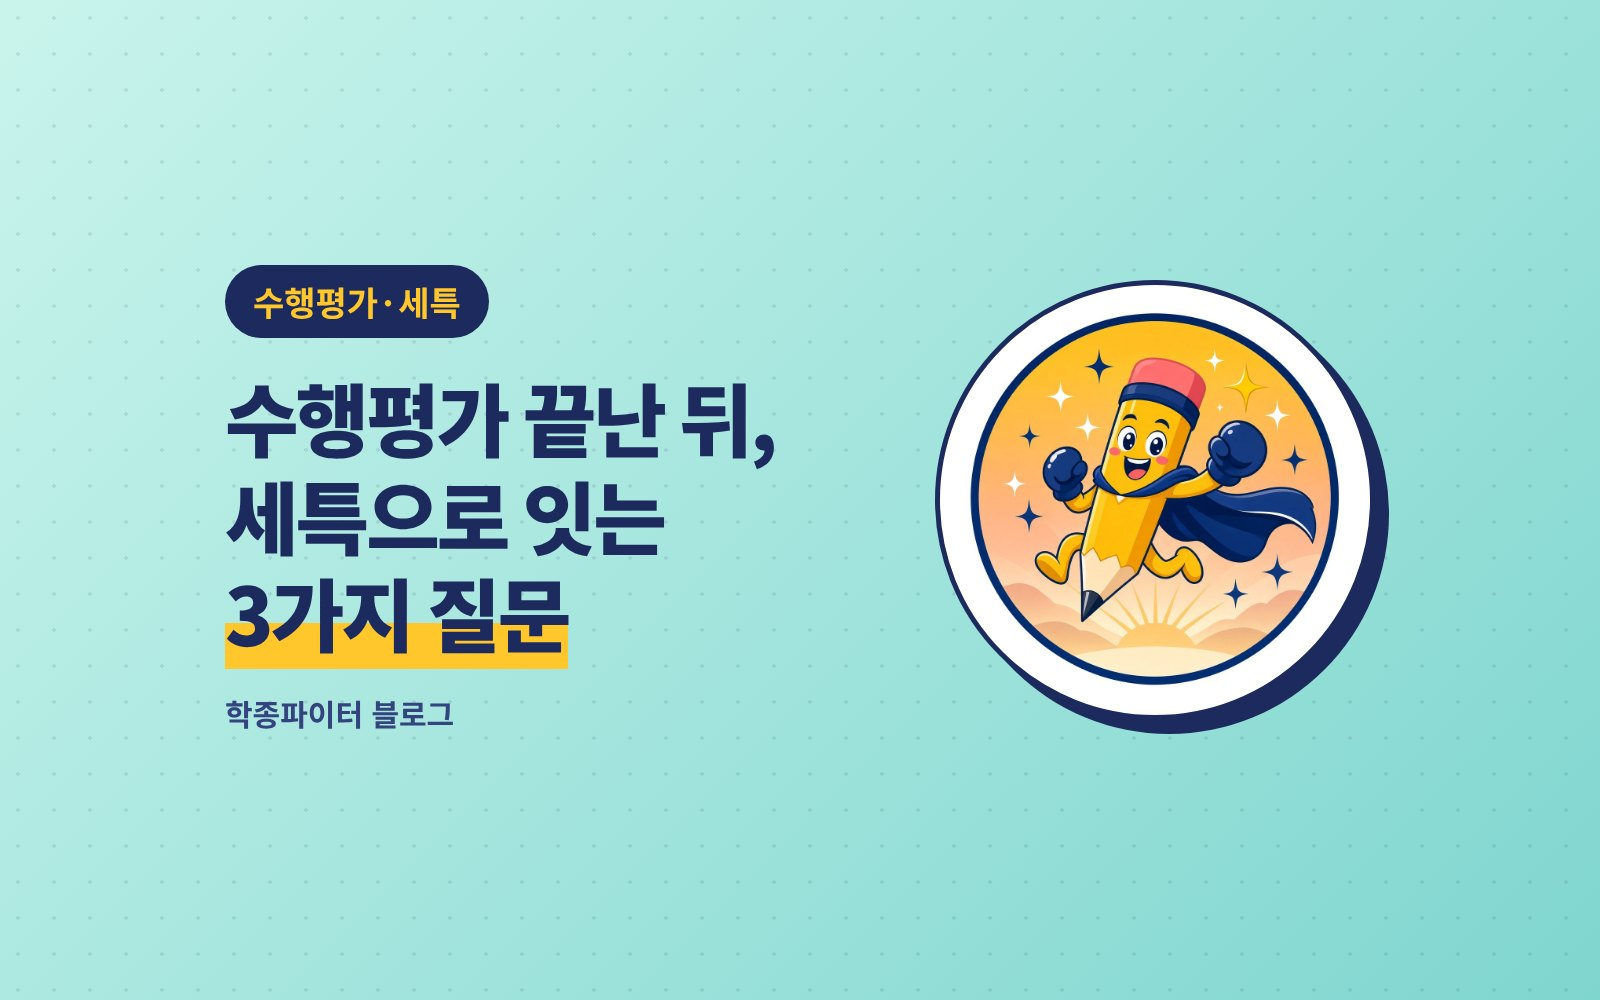
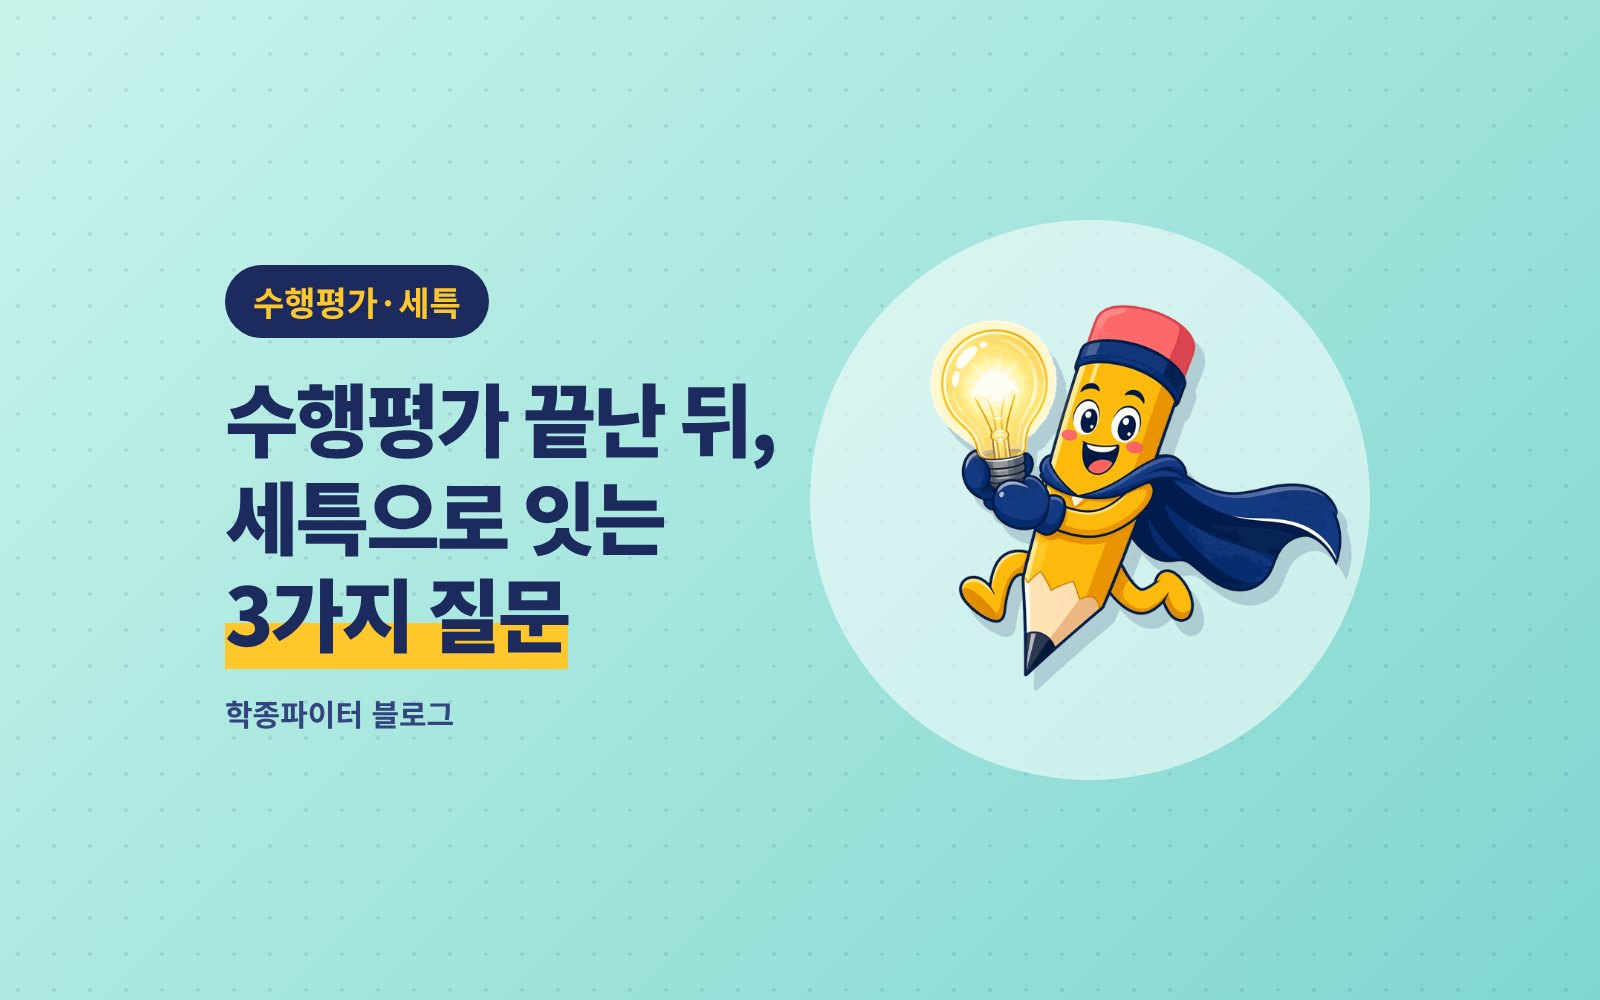
캐릭터 포즈 20종 추가, 블로그 썸네일을 포즈 이미지로 교체
- images/characters/: 배경 제거한 캐릭터 PNG 20장 + 포즈 안내
- .github/scripts/make_thumb.py: 글 제목+캐릭터 썸네일 생성 도구

Claude-Session: https://claude.ai/code/session_01CejgdAdDNq9LcUqEF9wuq1

Changed region(s): [[0.5, 0.217, 0.875, 0.806]]

diff --git a/.github/scripts/make_thumb.py b/.github/scripts/make_thumb.py
@@ -1,0 +1,53 @@
+"""블로그 썸네일(1600x1000) 만들기. 캐릭터는 images/characters/ 에서 골라요.
+
+사용법 (Playwright + Chrome 필요):
+  python .github/scripts/make_thumb.py <영어주소> <캐릭터이름> "<카테고리>" "<제목 줄1|줄2|줄3>" "<형광펜 단어>"
+예:
+  python .github/scripts/make_thumb.py seteuk-basics present-book "수행평가·세특" "세특이 뭐길래?|뜻부터 채우는|방법까지" "뜻부터"
+결과: images/blog/<영어주소>.jpg
+"""
+import os, sys, html
+from playwright.sync_api import sync_playwright
+
+ROOT = os.path.abspath(os.path.join(os.path.dirname(__file__), "..", ".."))
+CHROME = os.environ.get("CHROME", "/usr/bin/google-chrome")
+
+def main(slug, char, cat, title, hl=""):
+    lines = [html.escape(x) for x in title.split("|")]
+    if hl:
+        lines = [l.replace(html.escape(hl), f"<em>{html.escape(hl)}</em>") for l in lines]
+    fs = 92 if max(len(l) for l in title.split("|")) <= 9 else 80
+    char_path = os.path.join(ROOT, "images", "characters", f"{char}.png")
+    if not os.path.exists(char_path):
+        sys.exit(f"캐릭터 이미지가 없어요: {char_path}")
+    page = f"""<!doctype html><html><head><meta charset="utf-8"><style>
+*{{margin:0;box-sizing:border-box}}
+body{{width:1600px;height:1000px;background:linear-gradient(135deg,#C9F4EC 0%,#7FD6CF 100%);font-family:'Noto Sans KR','Noto Sans CJK KR',sans-serif;color:#1C2A5E;position:relative;overflow:hidden}}
+.dots{{position:absolute;inset:0;background-image:radial-gradient(rgba(28,42,94,.10) 2px,transparent 2px);background-size:36px 36px}}
+.blob{{position:absolute;right:230px;top:50%;width:560px;height:560px;margin-top:-280px;border-radius:999px;background:rgba(255,255,255,.55)}}
+.safe{{position:absolute;left:225px;right:225px;top:0;bottom:0;display:flex;align-items:center;gap:20px}}
+.t{{flex:1;display:flex;flex-direction:column;gap:30px;position:relative}}
+.pill{{align-self:flex-start;background:#1C2A5E;color:#FFC72C;font-weight:700;font-size:34px;padding:12px 28px;border-radius:999px}}
+h1{{font-size:{fs}px;line-height:1.22;font-weight:900;letter-spacing:-3px}}
+h1 em{{font-style:normal;background:linear-gradient(transparent 60%,#FFC72C 60%)}}
+.brand{{font-size:30px;font-weight:700;color:#33447F}}
+.c{{flex:none;width:520px;height:720px;display:flex;align-items:center;justify-content:center;position:relative}}
+.c img{{max-width:100%;max-height:100%;filter:drop-shadow(10px 14px 0 rgba(28,42,94,.18))}}
+</style></head><body><div class="dots"></div><div class="blob"></div><div class="safe"><div class="t"><span class="pill">{html.escape(cat)}</span><h1>{'<br>'.join(lines)}</h1><div class="brand">학종파이터 블로그</div></div><div class="c"><img src="file://{char_path}"></div></div></body></html>"""
+    tmp = os.path.join(ROOT, ".thumb_tmp.html")
+    open(tmp, "w", encoding="utf-8").write(page)
+    out = os.path.join(ROOT, "images", "blog", f"{slug}.jpg")
+    os.makedirs(os.path.dirname(out), exist_ok=True)
+    with sync_playwright() as p:
+        b = p.chromium.launch(executable_path=CHROME)
+        pg = b.new_page(viewport={"width": 1600, "height": 1000})
+        pg.goto("file://" + tmp); pg.wait_for_timeout(500)
+        pg.screenshot(path=out, type="jpeg", quality=86)
+        b.close()
+    os.remove(tmp)
+    print("만들었어요:", out)
+
+if __name__ == "__main__":
+    if len(sys.argv) < 5:
+        sys.exit(__doc__)
+    main(*sys.argv[1:6])

diff --git a/images/characters/README.md b/images/characters/README.md
@@ -1,0 +1,29 @@
+# 학종파이터 캐릭터 포즈 모음
+
+배경을 지운 PNG 20장이에요. 블로그 썸네일과 글 안 이미지에 골고루 돌려 써요.
+같은 포즈가 연달아 나오지 않게, 썸네일에 쓰면 아래 '사용한 글'에 적어 주세요.
+
+| 파일 | 포즈 | 어울리는 글 | 사용한 글 |
+|---|---|---|---|
+| blueprint.png | 빛나는 설계도를 펼쳐 봄 | 학생부 설계, 로드맵, 1년 계획 | |
+| books-thumbsup.png | 책 더미 + 엄지척 | 독서, 추천 도서 | |
+| books-thumbsup-2.png | 책 더미 + 엄지척 (웃는 얼굴) | 독서, 탐구 자료 | |
+| reading-heart.png | 앉아서 하트 책 읽기 | 독서활동, 인문 계열 | |
+| reading-cross.png | 책상다리로 책 읽기 | 독서, 공부법 | |
+| present-book.png | 책 옆에서 설명하는 손짓 | 개념 설명, 기초 안내 | seteuk-basics |
+| idea.png | 전구를 들고 달림 | 탐구 주제, 아이디어, 질문 | seteuk-3-questions |
+| thinking.png | 턱 괴고 고민 | 고민 상담, Q&A, 헷갈리는 것 | |
+| thinking-smile.png | 턱 괴고 미소 | 선택 가이드, 비교 | |
+| point-you.png | 화면을 가리킴 (망토 펼침) | "너도 할 수 있어", 체크리스트 | |
+| point-left.png | 왼쪽을 가리킴 | 안내, 다음 단계, 공지 | |
+| cheer.png | 주먹 들고 화이팅 | 응원, 시험 기간 | |
+| cheer-2.png | 주먹 들고 화이팅 (다른 각도) | 응원, 동기부여 | |
+| boxing.png | 권투 자세 | 내신 대비, 도전 | |
+| salute.png | 경례 | 시작, 다짐, 새 학기 | |
+| trophy.png | 트로피 들고 점프 | 합격 후기, 성과 | |
+| diploma.png | 졸업장 두루마리 | 졸업 요건, 고교학점제, 합격 | |
+| backpack.png | 가방 메고 걷기 | 새 학기, 학교생활 | |
+| meditate.png | 명상 | 멘탈 관리, 시험 전 | |
+| sleep.png | 연필 베고 잠 | 휴식, 방학, 4컷 만화 | |
+
+썸네일 만들기: `.github/scripts/make_thumb.py` (사용법은 파일 맨 위에 있어요)
